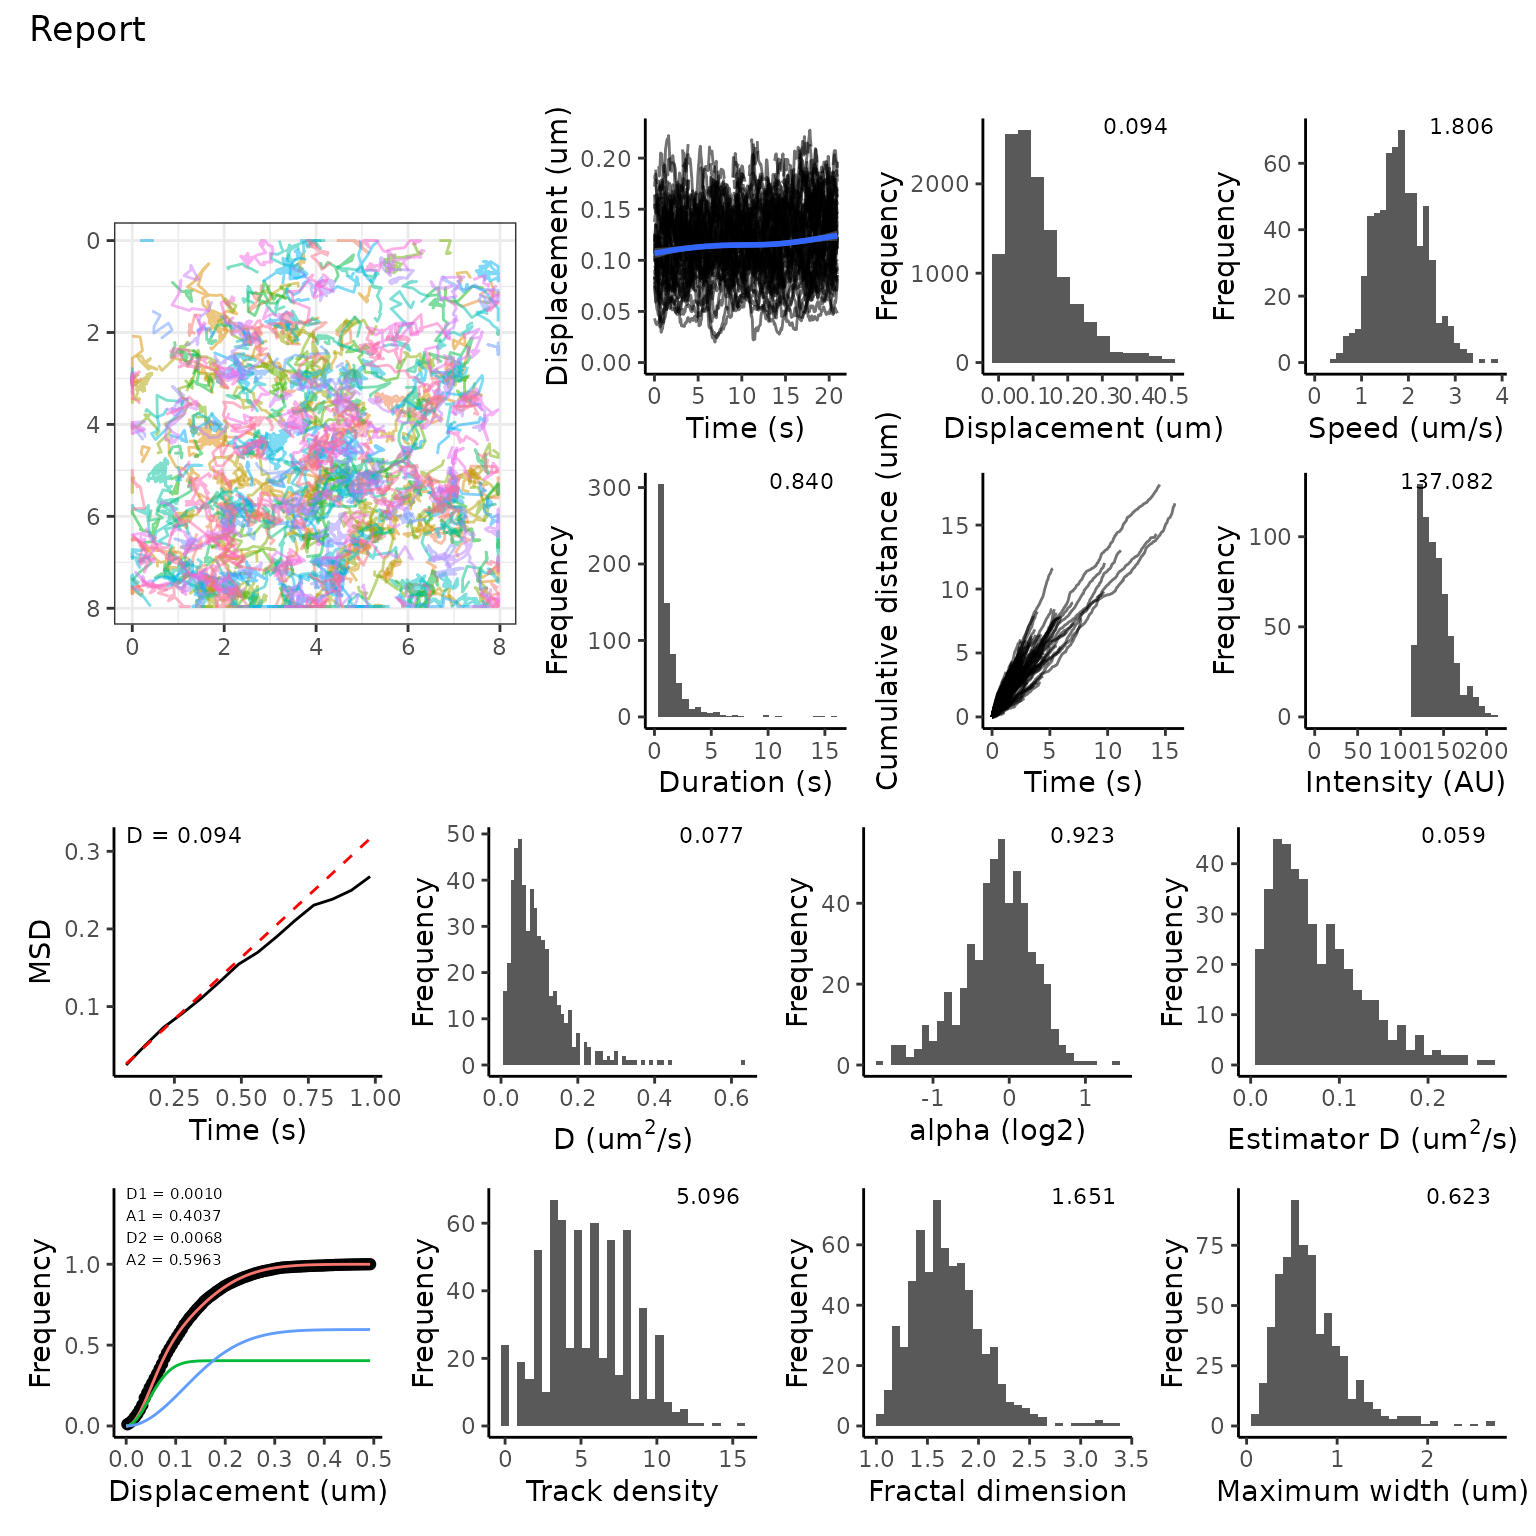
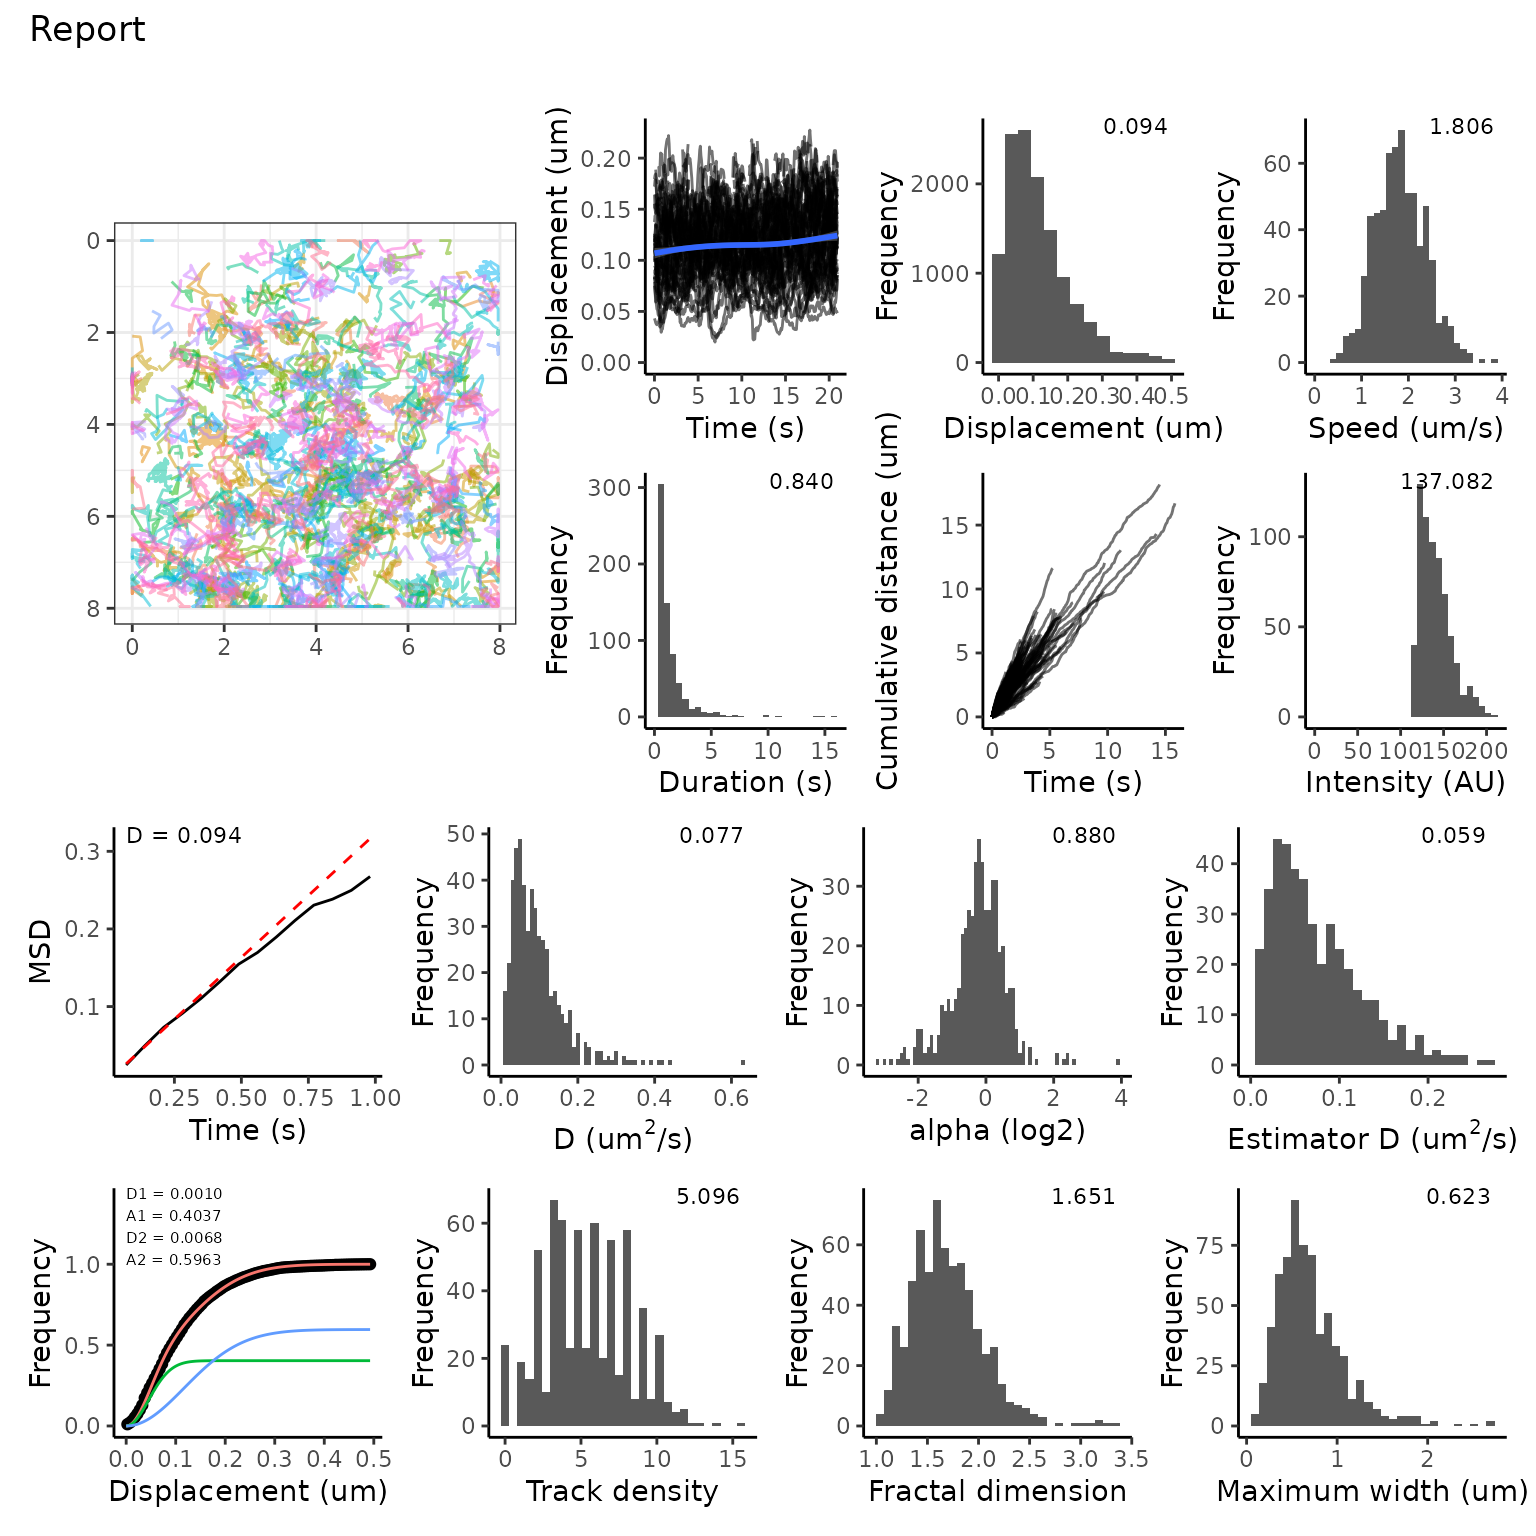
Deploying to gh-pages from @ quantixed/TrackMateR@ddf839965185f006cd73babf80bff0351e568b67 🚀

diff --git a/reference/calculateAlpha.html b/reference/calculateAlpha.html
@@ -3,7 +3,8 @@
 Normal diffusion is alpha = 1. Subdiffusion is alpha &amp;lt; 1 and superdiffusion is alpha &amp;gt; 1.
 Input is a data matrix of msd curves.
 Output is mean of log2(alpha), one value for each trace.
-D, calculated from a fit of the first four data points is also outputted."><meta property="og:image" content="https://quantixed.github.io/TrackMateR/logo.svg"><!-- mathjax --><script src="https://cdnjs.cloudflare.com/ajax/libs/mathjax/2.7.5/MathJax.js" integrity="sha256-nvJJv9wWKEm88qvoQl9ekL2J+k/RWIsaSScxxlsrv8k=" crossorigin="anonymous"></script><script src="https://cdnjs.cloudflare.com/ajax/libs/mathjax/2.7.5/config/TeX-AMS-MML_HTMLorMML.js" integrity="sha256-84DKXVJXs0/F8OTMzX4UR909+jtl4G7SPypPavF+GfA=" crossorigin="anonymous"></script><!--[if lt IE 9]>
+D, calculated from a fit of the first four data points, is also outputted.
+The method excludes the first four data points from the alpha calculation - may result in NAs if tracks are too short."><meta property="og:image" content="https://quantixed.github.io/TrackMateR/logo.svg"><!-- mathjax --><script src="https://cdnjs.cloudflare.com/ajax/libs/mathjax/2.7.5/MathJax.js" integrity="sha256-nvJJv9wWKEm88qvoQl9ekL2J+k/RWIsaSScxxlsrv8k=" crossorigin="anonymous"></script><script src="https://cdnjs.cloudflare.com/ajax/libs/mathjax/2.7.5/config/TeX-AMS-MML_HTMLorMML.js" integrity="sha256-84DKXVJXs0/F8OTMzX4UR909+jtl4G7SPypPavF+GfA=" crossorigin="anonymous"></script><!--[if lt IE 9]>
 <script src="https://oss.maxcdn.com/html5shiv/3.7.3/html5shiv.min.js"></script>
 <script src="https://oss.maxcdn.com/respond/1.4.2/respond.min.js"></script>
 <![endif]--></head><body data-spy="scroll" data-target="#toc">
@@ -82,7 +83,8 @@ D, calculated from a fit of the first four data points is also outputted."><meta
 Normal diffusion is alpha = 1. Subdiffusion is alpha &lt; 1 and superdiffusion is alpha &gt; 1.
 Input is a data matrix of msd curves.
 Output is mean of log2(alpha), one value for each trace.
-D, calculated from a fit of the first four data points is also outputted.</p>
+D, calculated from a fit of the first four data points, is also outputted.
+The method excludes the first four data points from the alpha calculation - may result in NAs if tracks are too short.</p>
     </div>
 
     <div id="ref-usage">
